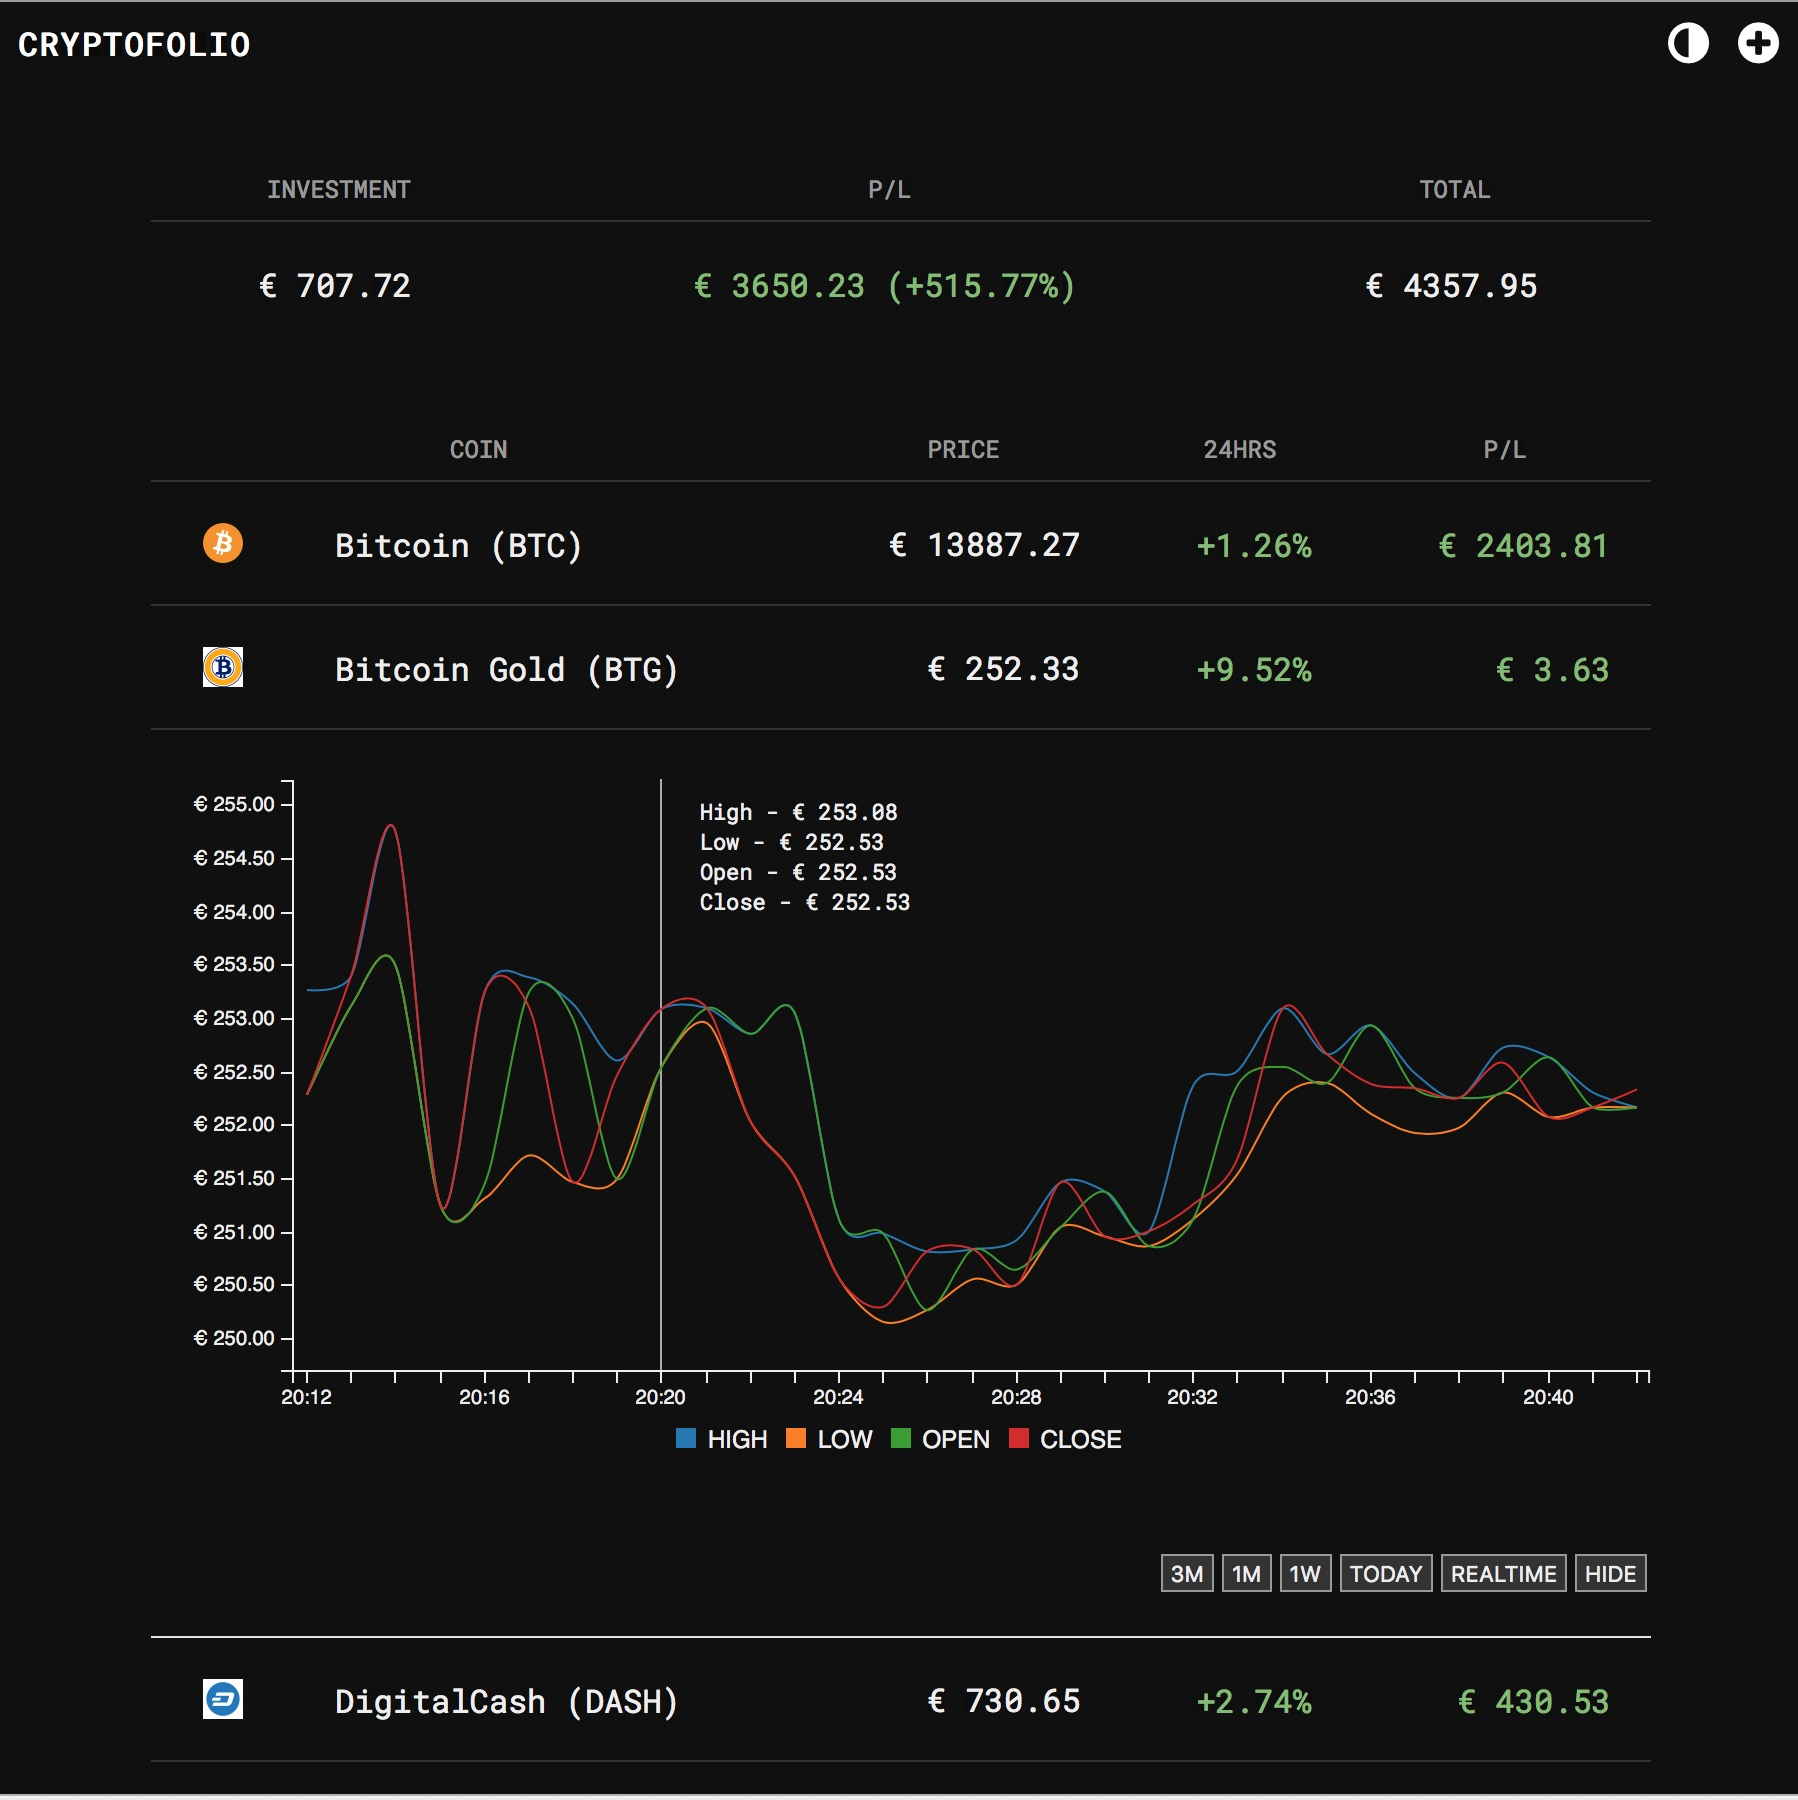
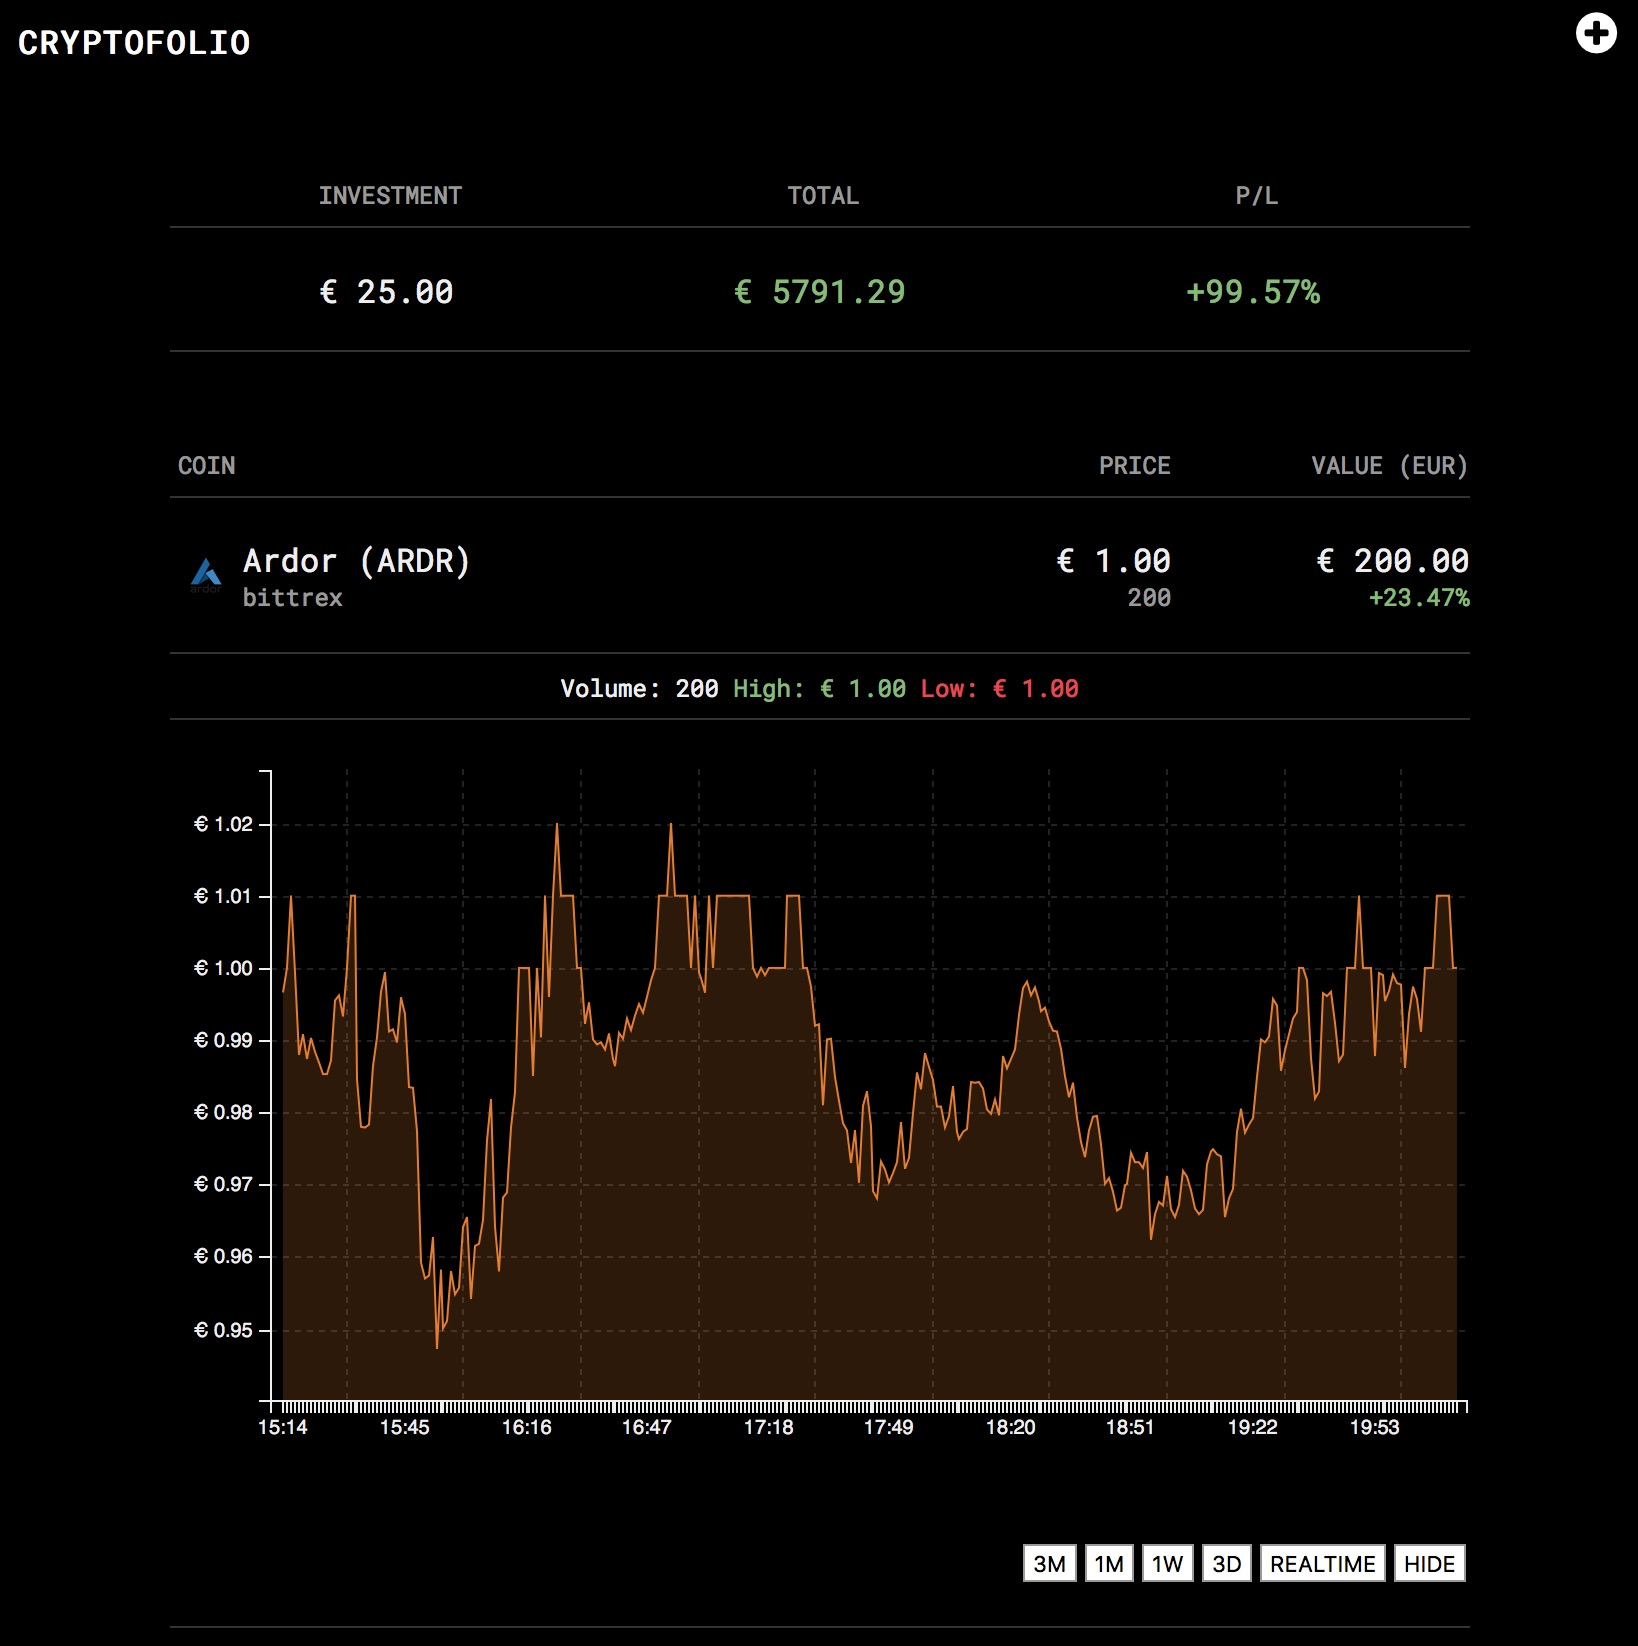
optimizations

diff --git a/lib/js/script.js b/lib/js/script.js
@@ -25,7 +25,7 @@ $(function() {
             "<button class='3month'>3M</button>" +
             "<button class='1month'>1M</button>" +
             "<button class='1week'>1W</button>" +
-            "<button class='today'>TODAY</button>" +
+            "<button class='3d'>3D</button>" +
             "<button class='realtime'>REALTIME</button>" +
             "<button class='hide'>HIDE</button></tr>");
 
@@ -37,25 +37,27 @@ $(function() {
 
         $(".realtime").on("click", function(event) {
             clearInterval(graphrefresh);
-            loadgraph(s, 'today', 30);
+            loadgraph(s, 'today', 300);
         });
         $(".1week").on("click", function(event) {
             clearInterval(graphrefresh);
-            loadgraph(s, 'history', 7);
+            loadgraph(s, 'hour', 168);
         });
         $(".1month").on("click", function(event) {
             clearInterval(graphrefresh);
             loadgraph(s, 'history', 30);
         });
+        $(".3d").on("click", function(event) {
+            clearInterval(graphrefresh);
+            loadgraph(s, 'hour', 72);
+        });
         $(".3month").on("click", function(event) {
             clearInterval(graphrefresh);
             loadgraph(s, 'history', 90);
         });
-        $(".today").on("click", function(event) {
-            loadgraph(s, 'today', 300);
-        });
+       
 
-        loadgraph(s, 'today', 30);
+        loadgraph(s, 'today', 300);
 
 
     });

diff --git a/lib/portfolio_bittrex.php b/lib/portfolio_bittrex.php
@@ -1,8 +1,8 @@
 <?php
 	// get api bittrex keys
 	
-	$apikey=$ini_array['bittrexapi'];
-	$apisecret=$ini_array['bittrexsecret'];
+	$apikey=$ini_array['bittrex']['api'];
+	$apisecret=$ini_array['bittrex']['secret'];
 
 	if($apikey!=''){
 	 
@@ -18,7 +18,7 @@
 
 		foreach ($bittrex['result'] as $value) {
 
-			if($value["Balance"]>0){
+			if($value["Balance"]>0.009){
 				$coindata['coins']['bittrex'][$value['Currency']]['wallettype'] = 'exchange';
 				$coindata['coins']['bittrex'][$value['Currency']]['walletname'] = 'bittrex';
 		    	$coindata['coins']['bittrex'][$value['Currency']]['name'] = $coinList['Data'][$value['Currency']]['CoinName'];

diff --git a/portfolio.php b/portfolio.php
@@ -4,11 +4,15 @@ include_once 'functions.php';
 $ini_array = parse_ini_file("api.ini.php");
 $allcoins = file_get_contents('lib/data/coinlist.json');
 $coinList = json_decode($allcoins, true);
-$ini_array = parse_ini_file("api.ini.php");
+$ini_array = parse_ini_file("api.ini.php",true);
 
-include_once 'lib/portfolio_kraken.php';
-include_once 'lib/portfolio_bittrex.php';
 include_once 'lib/portfolio_local.php';
+usleep(100000);
+include_once 'lib/portfolio_kraken.php';
+usleep(100000);
+include_once 'lib/portfolio_bittrex.php';
+usleep(100000);
+
 
 if(sizeof($coindata)>0){
 foreach ($coindata['coins'] as $key => $val) {

diff --git a/index.php b/index.php
@@ -9,6 +9,7 @@ include 'portfolio.php';
 		<link rel="apple-touch-startup-image" href="lib/images/launch.png">
 		<link rel="apple-touch-icon" href="lib/images/touch-icon-iphone.png" />
 		<meta name="apple-mobile-web-app-title" content="Cryptofolio">
+		<meta name="apple-mobile-web-app-capable" content="yes">
 		<meta name="apple-mobile-web-app-status-bar-style" content="black-translucent">
 		<meta name="viewport" content="width=device-width, initial-scale=1.0, minimum-scale=1.0">
 		<link rel="stylesheet" type="text/css" href="https://fonts.googleapis.com/css?family=Roboto+Mono" >

diff --git a/graph.php b/graph.php
@@ -9,7 +9,12 @@ date_default_timezone_set('Europe/London');
     	$graphdata = json_decode($graph, true);
     
     }
+    if($_GET['type']=='hour'){
+        
+        $graph = file_get_contents("https://min-api.cryptocompare.com/data/histohour?fsym=$symbol&tsym=EUR&limit=$limit");
+        $graphdata = json_decode($graph, true);
     
+    }
     if($_GET['type']=='history'){
     
     	$graph = file_get_contents("https://min-api.cryptocompare.com/data/histoday?fsym=$symbol&tsym=EUR&limit=$limit");

diff --git a/api.ini.php b/api.ini.php
@@ -2,13 +2,19 @@
 ;die(); // For further security
 ;/*
 
-investment="2950.00"
 
-[keys]
-bittrexapi="519b15ab8729410db8247e885113b63a"
-bittrexsecret="578d53b01d294ab4adfd0a144a6c227b"
-krakenapi=""
-krakensecret=""
+[portfolio]
+investment="3950.00"
+
+[bittrex]
+api="6cf5299692ba455d964ae43581a4d141"
+secret="49b855a3b25649d09dca3bbe434bac41"
+
+[kraken]
+api="joep"
+secret=""
+
+
 ;*/
 
 ;?>

diff --git a/lib/portfolio_kraken.php b/lib/portfolio_kraken.php
@@ -3,8 +3,8 @@
 // debug
 //$krakendata = Array('error' => Array(), 'result' => Array('ETH' => 3415.8014, 'ZEUR' => 155.5649, 'XBTC' => 149.9688412800, 'XXRP' => 499889.51600000));
 
-	$apikey=$ini_array['krakenapi'];
-	$apisecret=$ini_array['krakensecret'];
+	$apikey=$ini_array['kraken']['api'];
+	$apisecret=$ini_array['kraken']['secret'];
 
 	if($apikey!=''){
 	 

diff --git a/README.md b/README.md
@@ -1,19 +1,29 @@
 # Simple cryptocurrency portfolio in PHP
+Create your personal cryptocurrency portfolio
 
 ### Requirements
-- Webserver that can serve php
+- Webserver that can serve PHP
 - lib/data needs to be writable by the webserver to cache images and to write portfolio.json
 
 ### Features
 - Create your personal cryptocurrency portfolio
-- Add coins and specify the coin you bougth them with at a certain date, it will calculate the price in euros (for now) for that date.
-- Light/Dark theme
-- Works on mobile 
+- API integration for Kraken and BitTrex
+- Add coins manually
+- Prices will be calculated in EUR
+- Realtime graphs
+
+### Usage
+- Clone or copy the the structure into a webfolder
+- Modify `api.ini.php` enter your API keys and/or your total investment (for P/L calculation)
+- Make lib/data writable
+- Open your browser and navigate to the url: to the m00n!
+
+
 
 Uses d3.js, c3.js and cryptocompare.com for the API.
 
-![dark theme](lib/data/example_screen_dark.jpg)
-![light theme](lib/data/example_screen_light.jpg)
+![example](lib/data/example_screen_dark.jpg)
+
 
 
 
